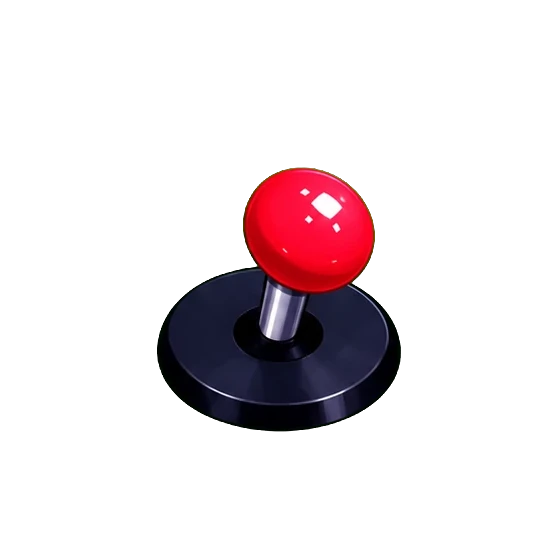
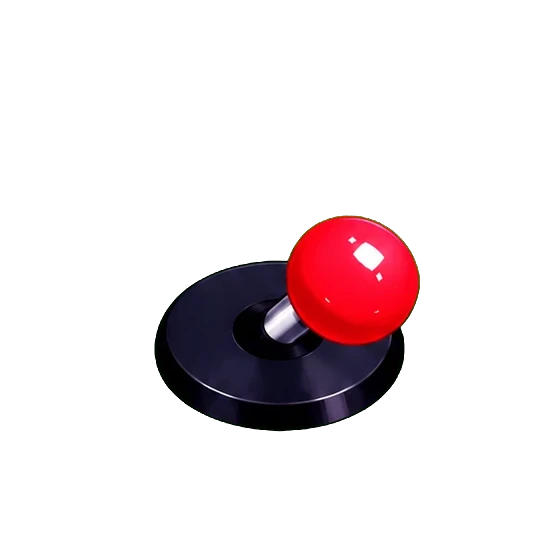
v2.1.0: the user's regenerated joystick art; joystick dead zone
Claude-Session: https://claude.ai/code/session_019JqX25W8kRMoSnwbw5sb37

diff --git a/tools/art/build-cabinet.py b/tools/art/build-cabinet.py
@@ -113,14 +113,21 @@ def joystick() -> None:
     dark = (a[..., :3].max(axis=2) < 70) & (a[..., 3] > 128)
     size, bx, by = 560, 280, 430
     cells = {"ul": (0, 0), "l": (1, 0), "dl": (2, 0), "u": (0, 1), "c": (1, 1), "d": (2, 1)}
-    widths = []
+    def dark_in(r: int, c: int) -> tuple[np.ndarray, np.ndarray]:
+        return np.where(dark[r * H // 3 : (r + 1) * H // 3, c * W // 2 : (c + 1) * W // 2])
+
+    # the base's width, from the stick at rest; a leaning ball can stick out past the base's left
+    # edge, so each base is placed by its right edge, which is always in view
+    ys, xs = dark_in(1, 1)
+    base_w = xs.max() - xs.min() + 1
     frames = {}
     for name, (r, c) in cells.items():
         y0, x0 = r * H // 3, c * W // 2
         cell = a[y0 : (r + 1) * H // 3, x0 : (c + 1) * W // 2]
-        ys, xs = np.where(dark[y0 : (r + 1) * H // 3, x0 : (c + 1) * W // 2])
-        cx, bottom = (xs.min() + xs.max()) // 2, ys.max()
-        widths.append(xs.max() - xs.min() + 1)
+        ys, xs = dark_in(r, c)
+        # (the middle column leans only up and down, so there the base's own middle is exact)
+        cx = (xs.min() + xs.max()) // 2 if c == 1 else xs.max() - base_w // 2
+        bottom = ys.max()
         frame = np.zeros((size, size, 4), np.float32)
         top, left = by - bottom, bx - cx
         ch, cw = cell.shape[:2]
@@ -132,7 +139,7 @@ def joystick() -> None:
         frames[name] = frames[src][:, ::-1]
     for name, frame in frames.items():
         save(frame, f"joystick-{name}.webp")
-    print(f"joystick: frames {size} px square, base centre x {bx}, base bottom y {by}, base {round(np.mean(widths))} px wide")
+    print(f"joystick: frames {size} px square, base centre x {bx}, base bottom y {by}, base {base_w} px wide")
 
 
 def room() -> None:

diff --git a/CHANGELOG.md b/CHANGELOG.md
@@ -2,6 +2,11 @@
 
 Every build that goes online gets a new version number (in `apps/game/package.json`, shown small on the home screen) and an entry here. Version numbers follow semver: a new feature bumps the middle number (1.0.0 → 1.1.0), a fix-only build bumps the last (1.0.0 → 1.0.1). Each version that goes live is tagged `vX.Y.Z` with a GitHub release, made automatically from its entry here when it reaches the `production` branch.
 
+## 2.1.0 (2026-10-24)
+
+- **New joystick.** A new red ball-top joystick, drawn in all 8 directions; the right-hand directions mirror the left ones, so both sides look the same. The stick is drawn in front of everything else on the cabinet, the screen and the buttons included.
+- **No accidental diagonals.** Dragging the joystick with a finger or the mouse needs a clear push before it moves, and a swipe that is mostly up, down, left or right stays exactly that. Only a clearly diagonal drag tilts it diagonally.
+
 ## 2.0.0 (2026-10-24)
 
 The first build of the big overhaul: a new arcade cabinet, made for phones. (A work in progress on staging: the fighters, the other screens and the characters are still to come.)
